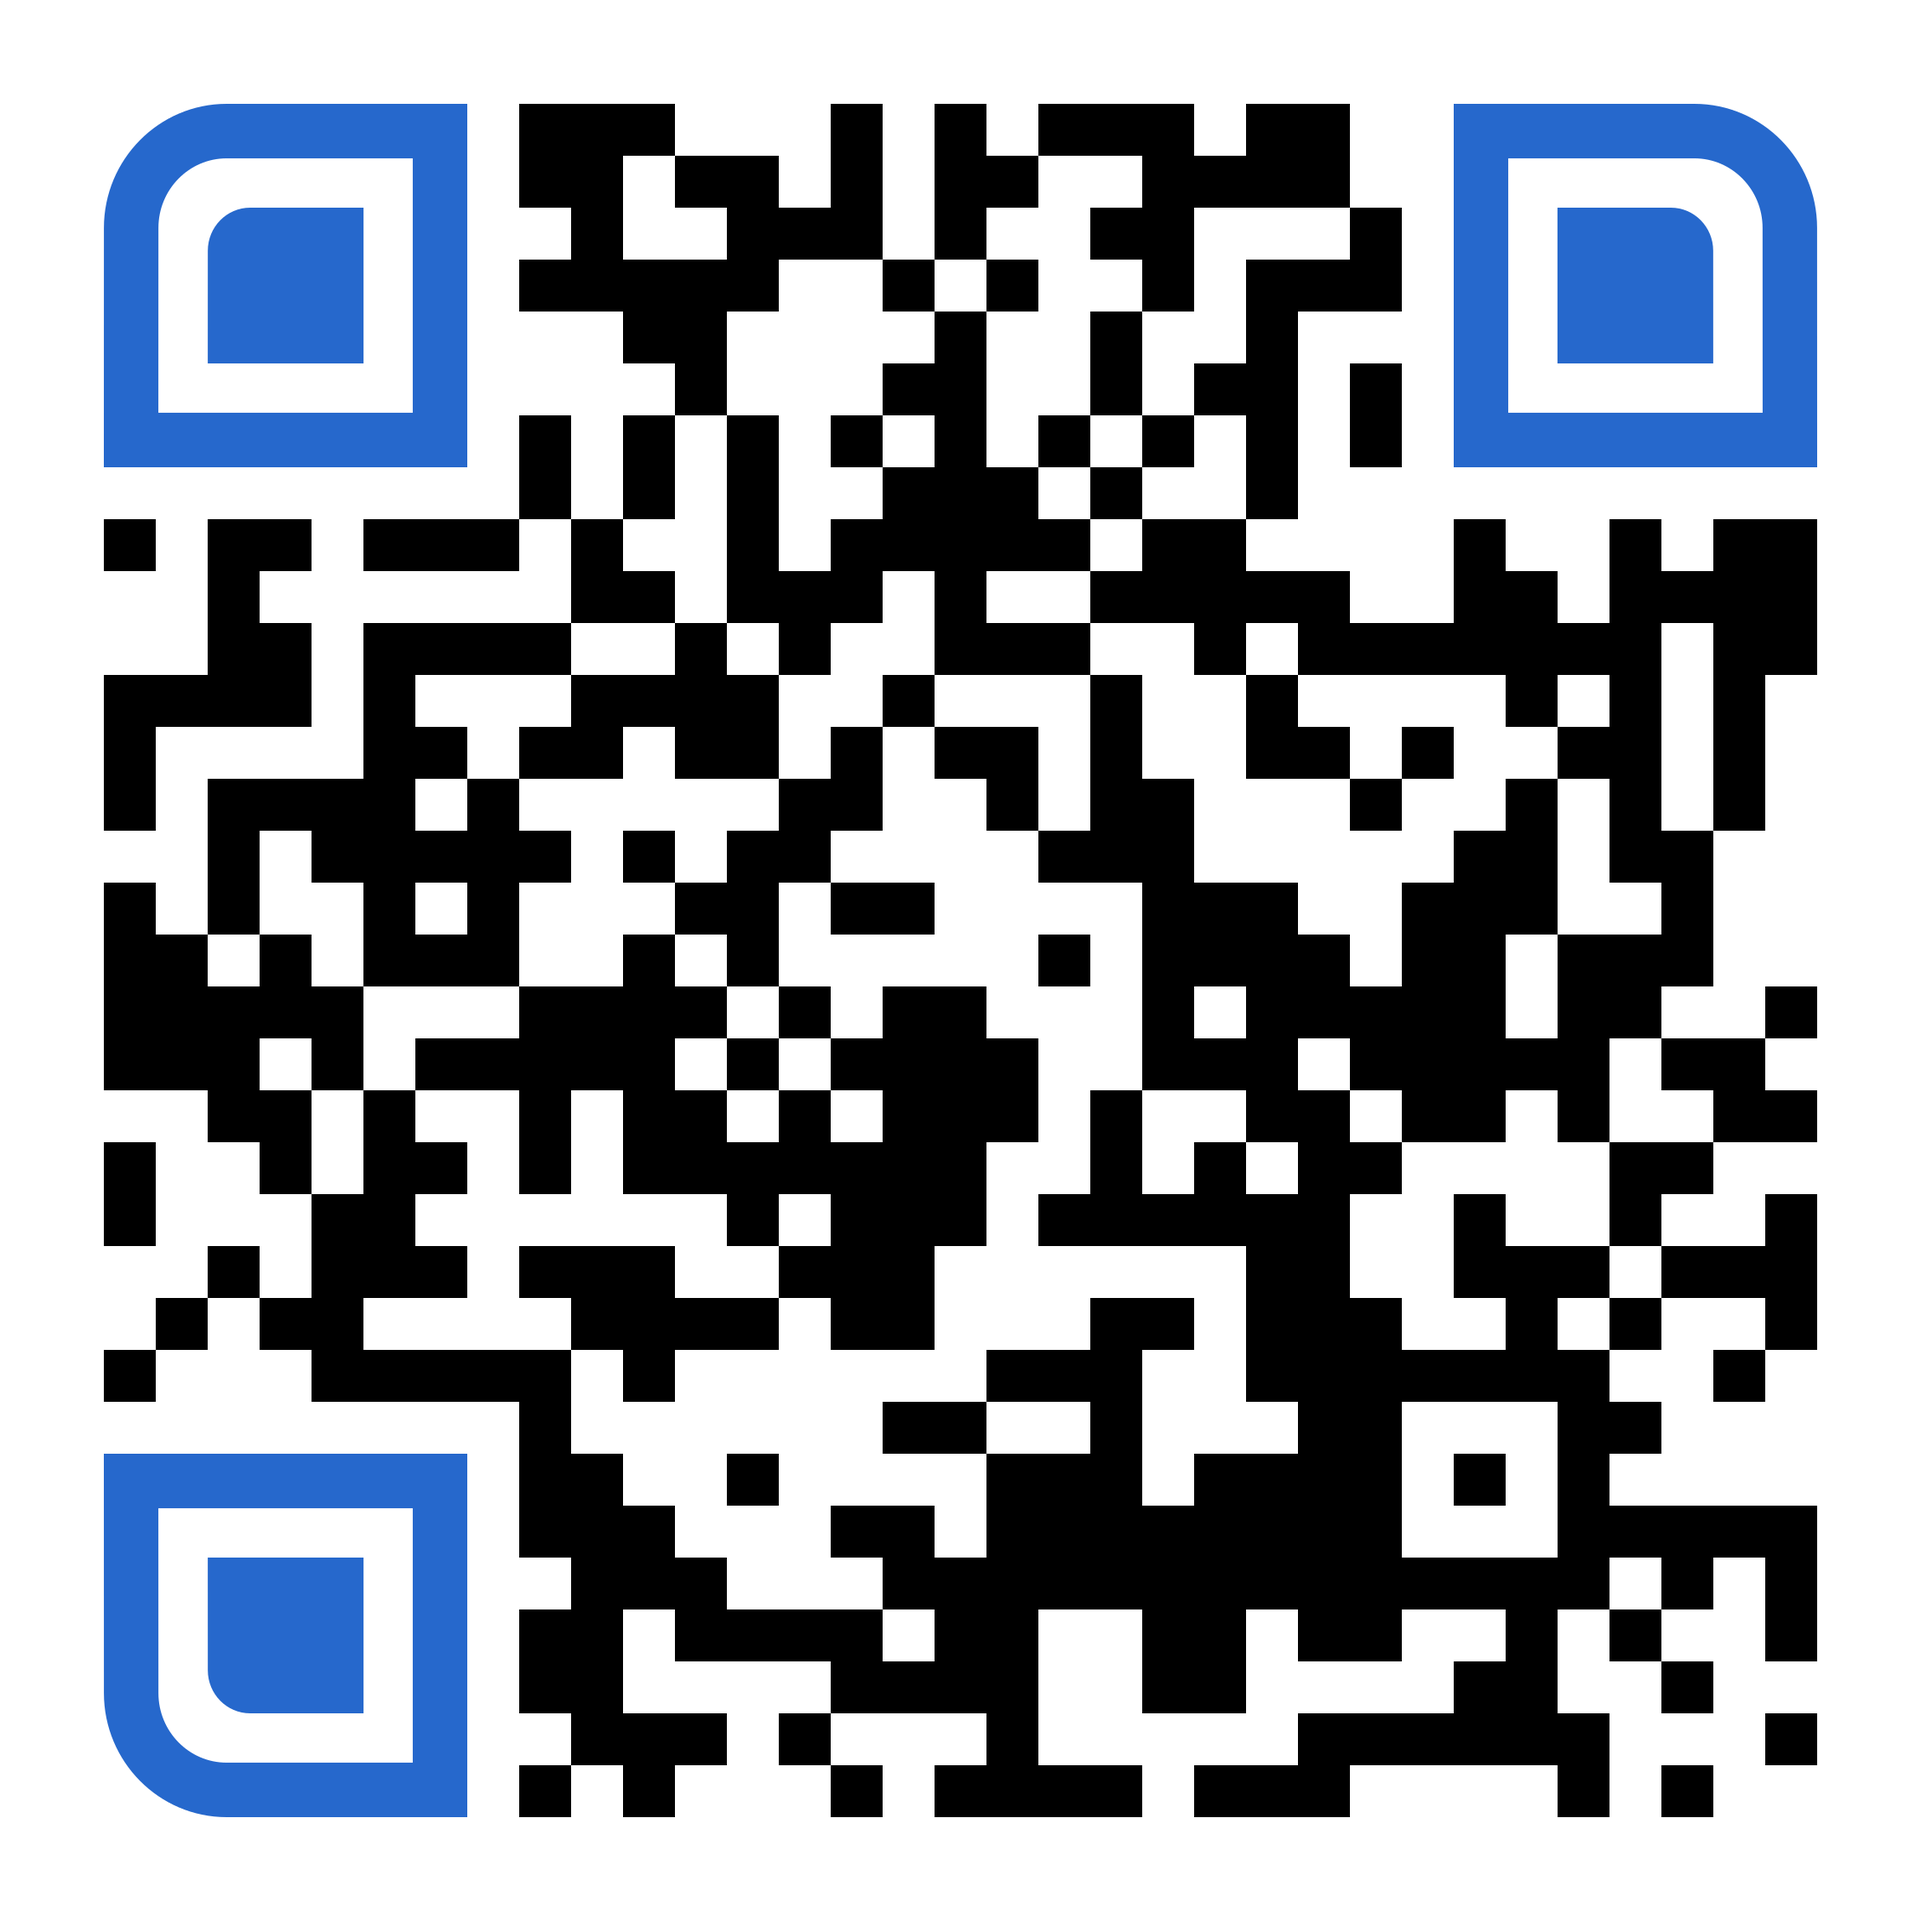
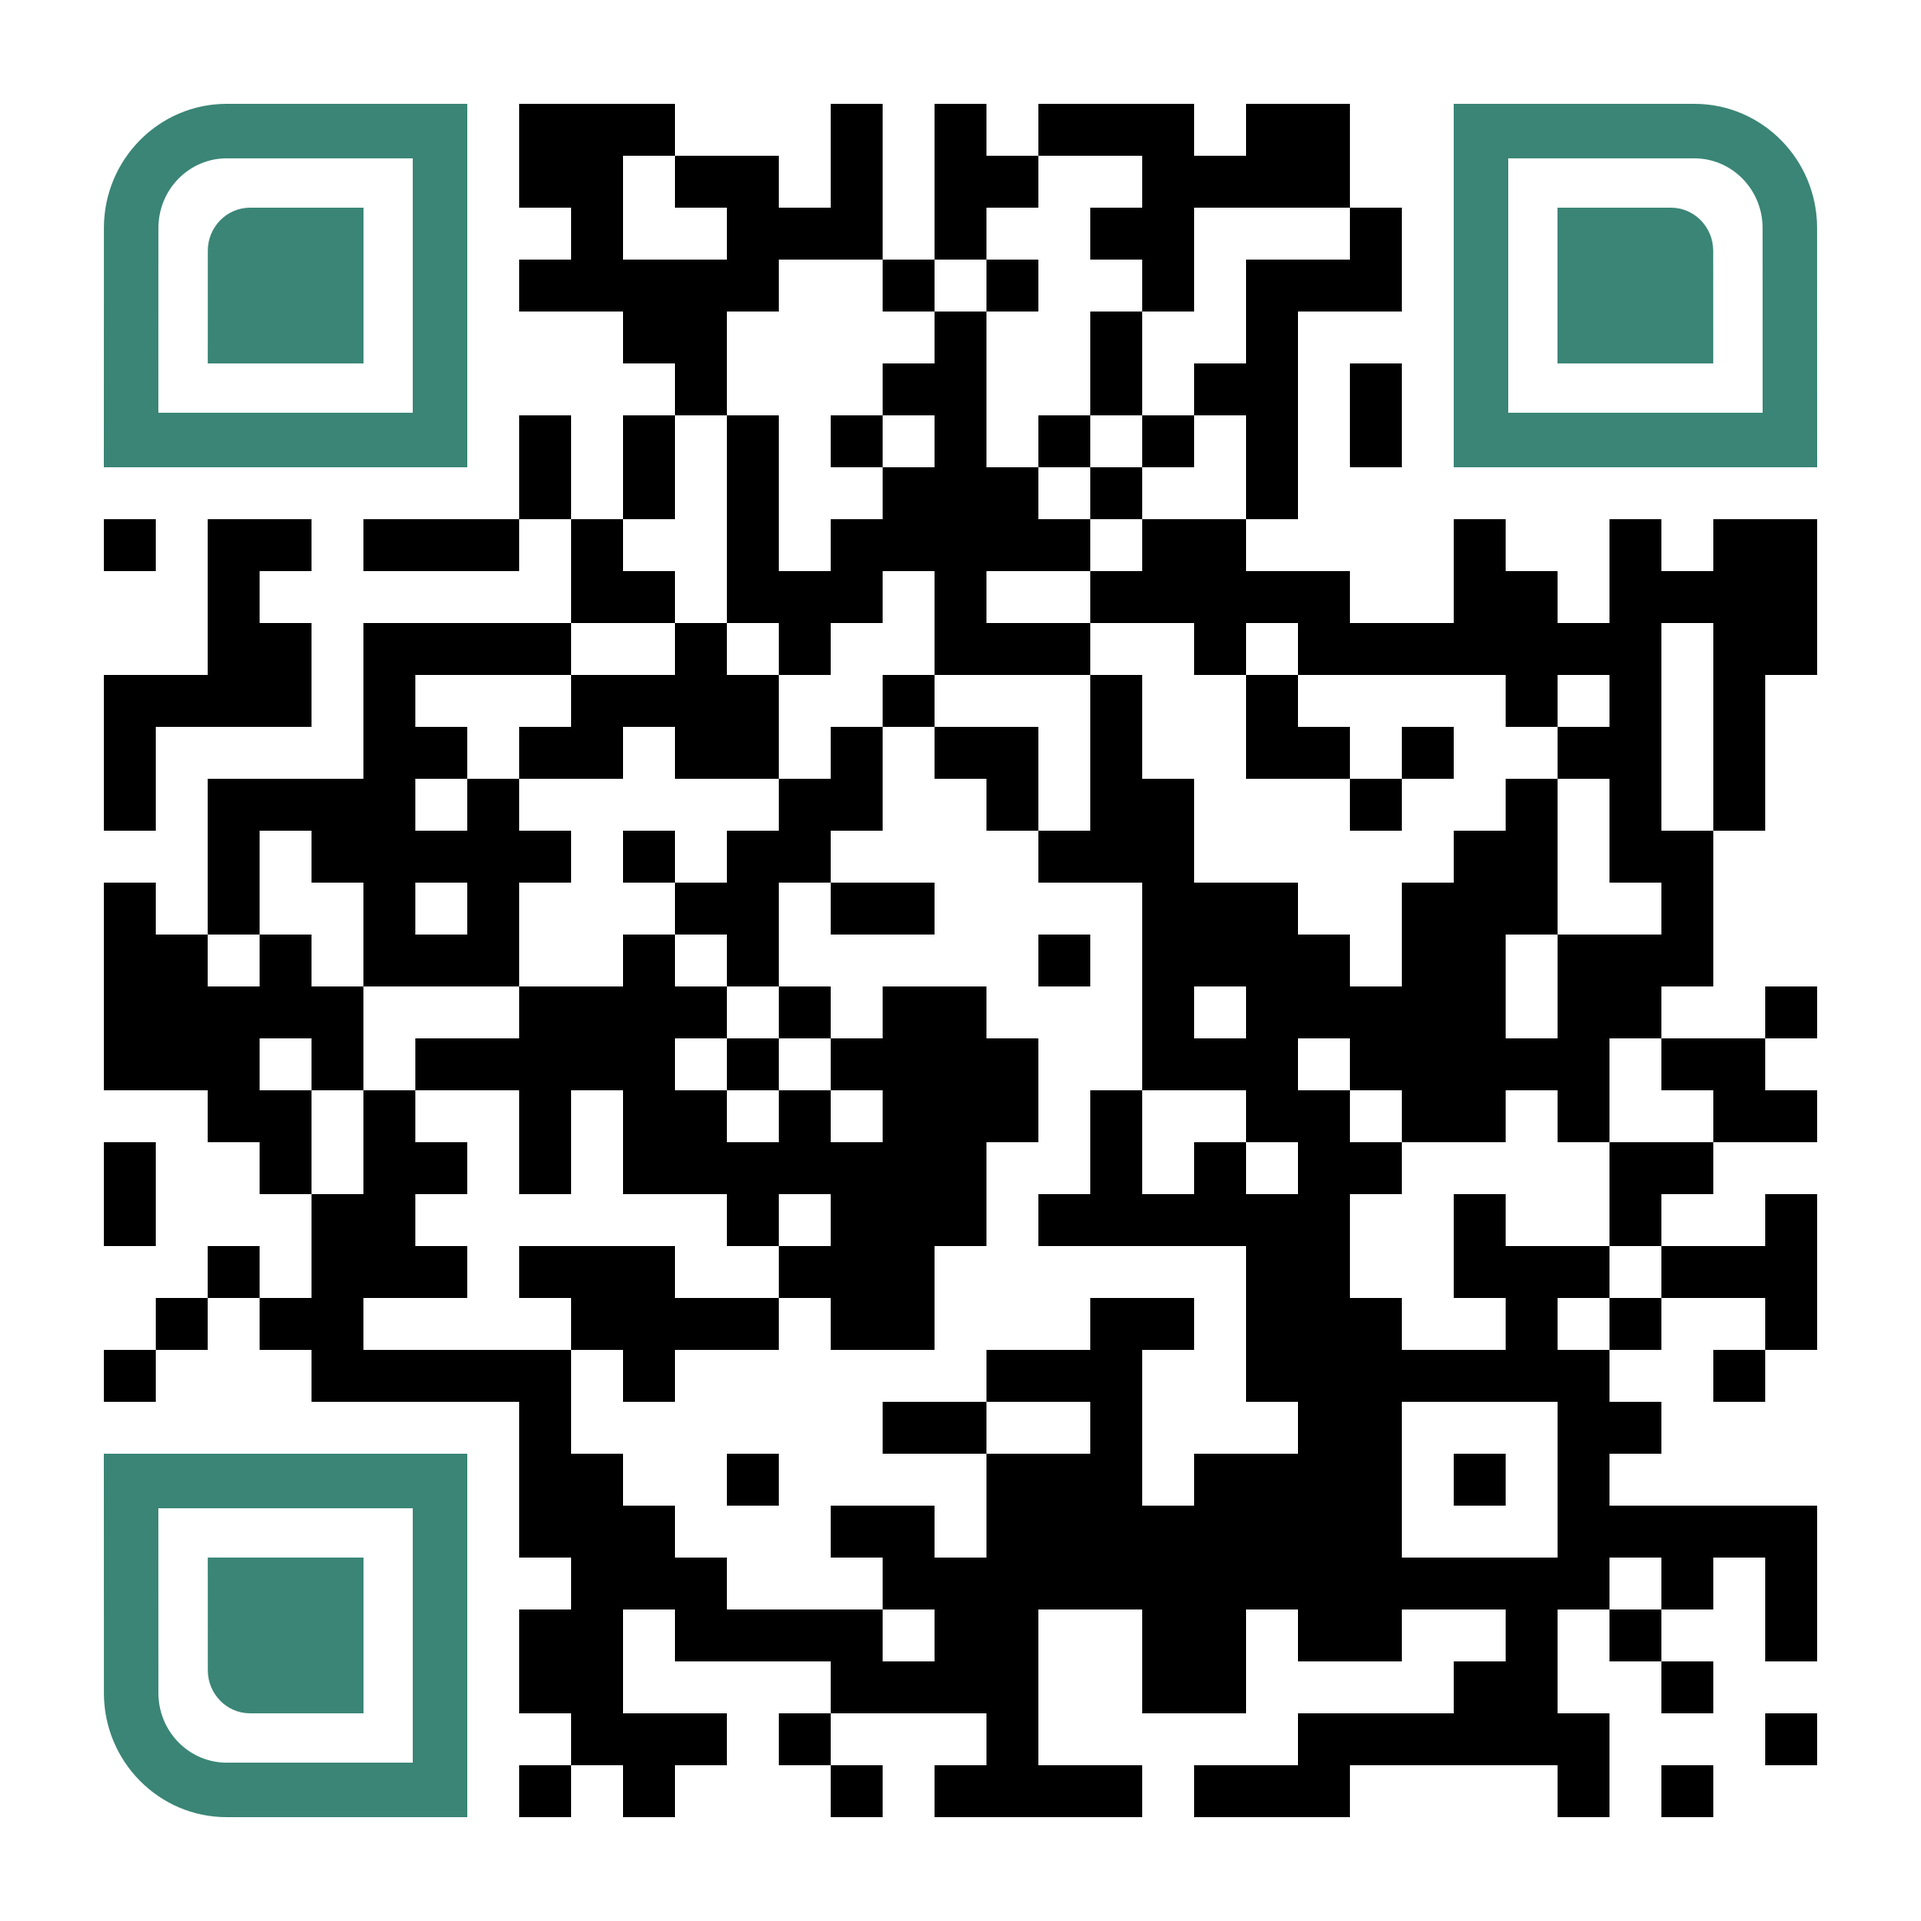
changed colours

Changed region(s): [[0.031, 0.7444, 0.2481, 0.9615], [0.7444, 0.031, 0.9615, 0.2481], [0.031, 0.031, 0.2481, 0.2481]]

diff --git a/assets/css/style.css b/assets/css/style.css
@@ -11,7 +11,7 @@ html {
 body {
   margin: 0px;
   font-family: "Quicksand", sans-serif;
-  color: #324e63;
+  color: #093637;
 }
 
 a {
@@ -97,17 +97,17 @@ a {
   padding: 50px 20px;
   padding-top: 100px;
   display: flex;
-  background: #ffd89b; /* fallback for old browsers */
+  background: #44A08D; /* fallback for old browsers */
   background: -webkit-linear-gradient(
     to right,
-    #19547b,
-    #ffd89b
-  ); /* Chrome 10-25, Safari 5.1-6 */
+    #44A08D,
+    #093637
+  );
   background: linear-gradient(
     to right,
-    #19547b,
-    #ffd89b
-  ); /* W3C, IE 10+/ Edge, Firefox 16+, Chrome 26+, Opera 12+, Safari 7+ */
+    #44A08D,
+    #093637
+  );
   display: flex;
 }
 
@@ -185,14 +185,14 @@ a {
 .profile-card__name {
   font-weight: 700;
   font-size: 35px;
-  color: #13547a;
+  color: #093637;
   margin-bottom: 15px;
 }
 
 .profile-card__txt {
   font-size: 20px;
   font-weight: 500;
-  color: #324e63;
+  color: #093637;
   margin-bottom: 15px;
 }
 
@@ -340,7 +340,7 @@ a {
   flex: 1 1 0;
   min-width: 200px;
   max-width: 300px;
-  background: linear-gradient(45deg, #3b87b3, #13547a);
+  background: linear-gradient(90deg, #44A08D, #093637);
   color: #ffffff;
   padding: 10px 30px;
   text-align: center;
@@ -360,9 +360,9 @@ a {
 
 .lowerButton:hover {
   border-width: 2px;
-  border-color: #13547a;
+  border-color: #093637;
   background: #ffffff;
-  color: #13547a;
+  color: #093637;
 }
 lowerButton-red {
   background: linear-gradient(45deg, #b33b3b, #7a1313);

diff --git a/assets/css/resume.css b/assets/css/resume.css
@@ -12,17 +12,17 @@ body {
   text-align: justify;
   font-size: 100%;
   margin: 0;
-  background: #ffd89b; /* fallback for old browsers */
+  background: #44A08D; /* fallback for old browsers */
   background: -webkit-linear-gradient(
     to right,
-    #19547b,
-    #ffd89b
-  ); /* Chrome 10-25, Safari 5.1-6 */
+    #44A08D,
+    #093637
+  );
   background: linear-gradient(
     to right,
-    #19547b,
-    #ffd89b
-  ); /* W3C, IE 10+/ Edge, Firefox 16+, Chrome 26+, Opera 12+, Safari 7+ */
+    #44A08D,
+    #093637
+  );
   color: #212121;
   font-size: 90%;
 }
@@ -91,7 +91,7 @@ body {
 
 /* Typography */
 hr {
-  color: #2668cc;
+  color: #3a8576;
 }
 
 h1,
@@ -108,13 +108,13 @@ h4 {
 }
 
 a {
-  color: #3d6dbe;
+  color: #3a8576;
   text-decoration: none;
 }
 
 a:focus,
 a:hover {
-  color: #6594e0;
+  color: #4da896;
 }
 
 p {
@@ -236,7 +236,7 @@ section {
 }
 
 .light {
-  color: #2668cc;
+  color: #3a8576;
 }
 
 .light a {
@@ -260,7 +260,7 @@ section {
 }
 
 .content-skills li {
-  background: #2668cc;
+  background: #3a8576;
   border-radius: 2px;
   display: inline-block;
   padding: 2px 10px;
@@ -279,7 +279,7 @@ section {
   margin: 3px 10px;
 }
 .project-stack li {
-  background: #2668cc;
+  background: #3a8576;
   border-radius: 2px;
   display: inline-block;
   padding: 2px 10px;

diff --git a/index.html b/index.html
@@ -58,7 +58,7 @@
               <i class="icon icon-at-sign"></i>
             </span>
           </a>
-          <a href="https://justanothergeek.hashnode.dev/" class="profile-card-social__item blog" target="_blank">
+          <a href="https://medium.com/jagb" class="profile-card-social__item blog" target="_blank">
             <span class="icon-font">
               <i class="icon icon-rss"></i>
             </span>
